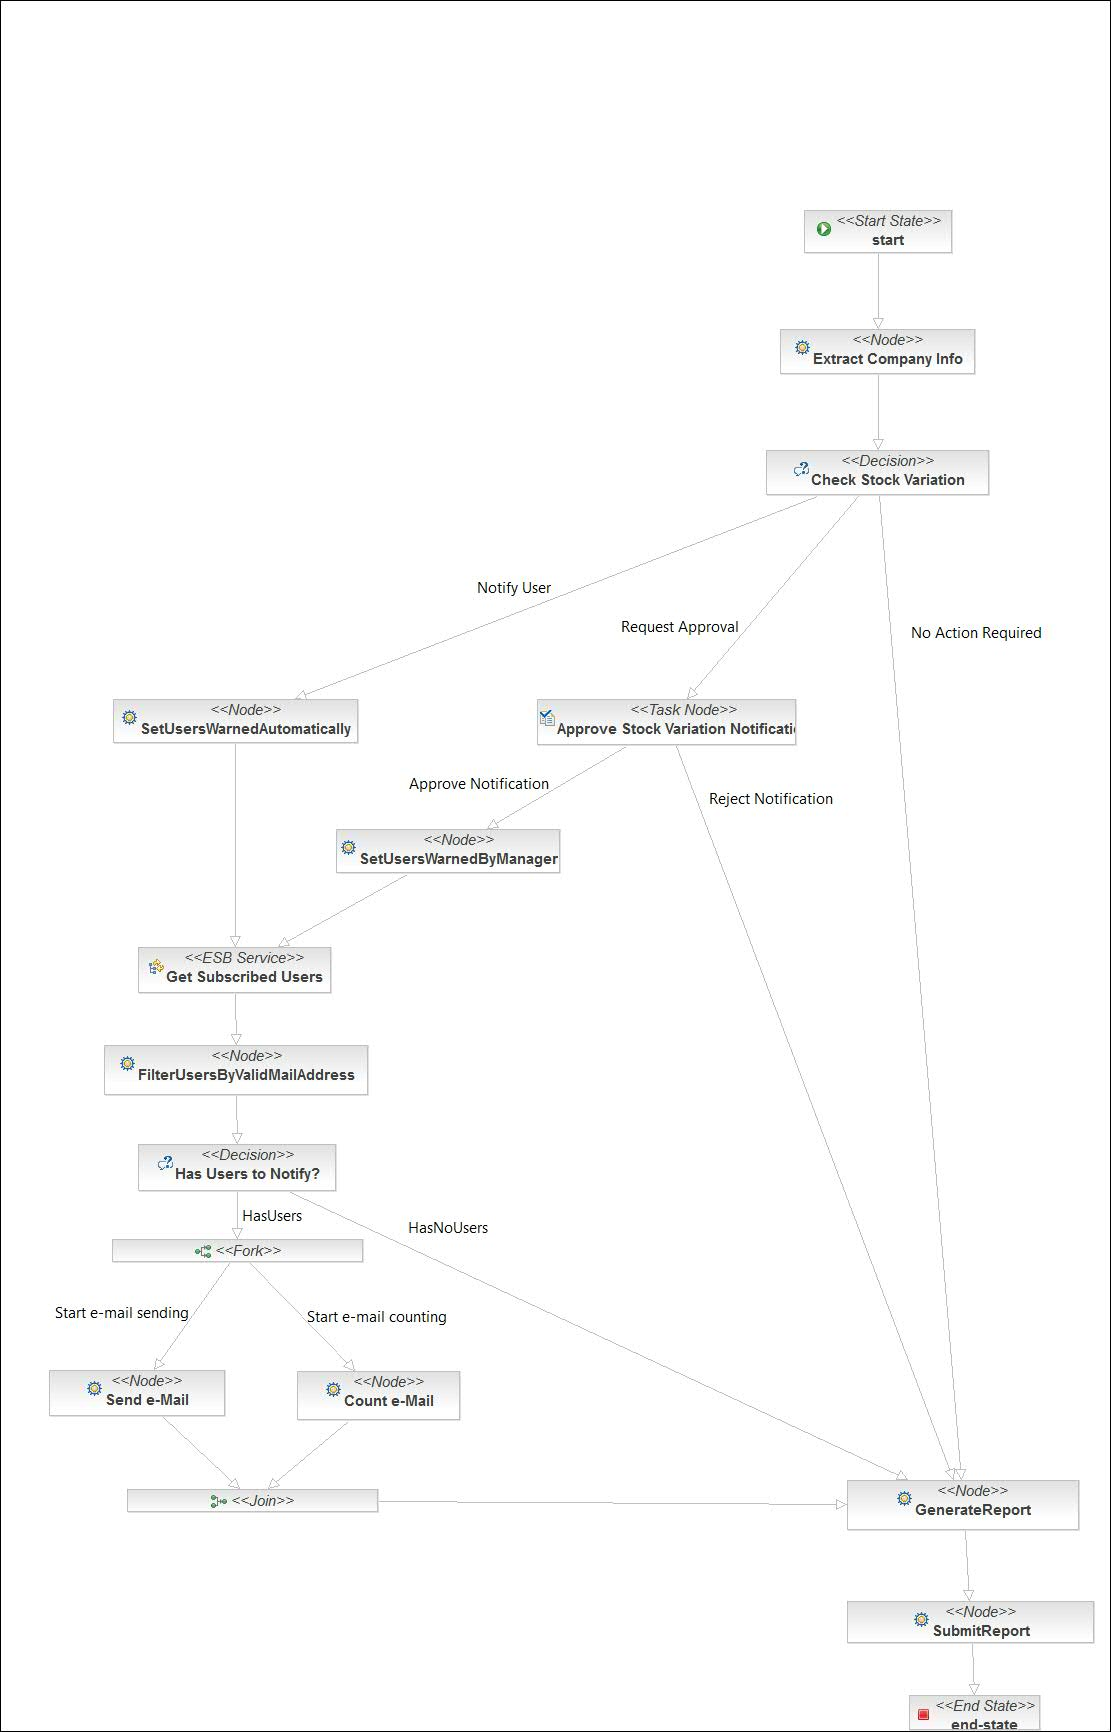
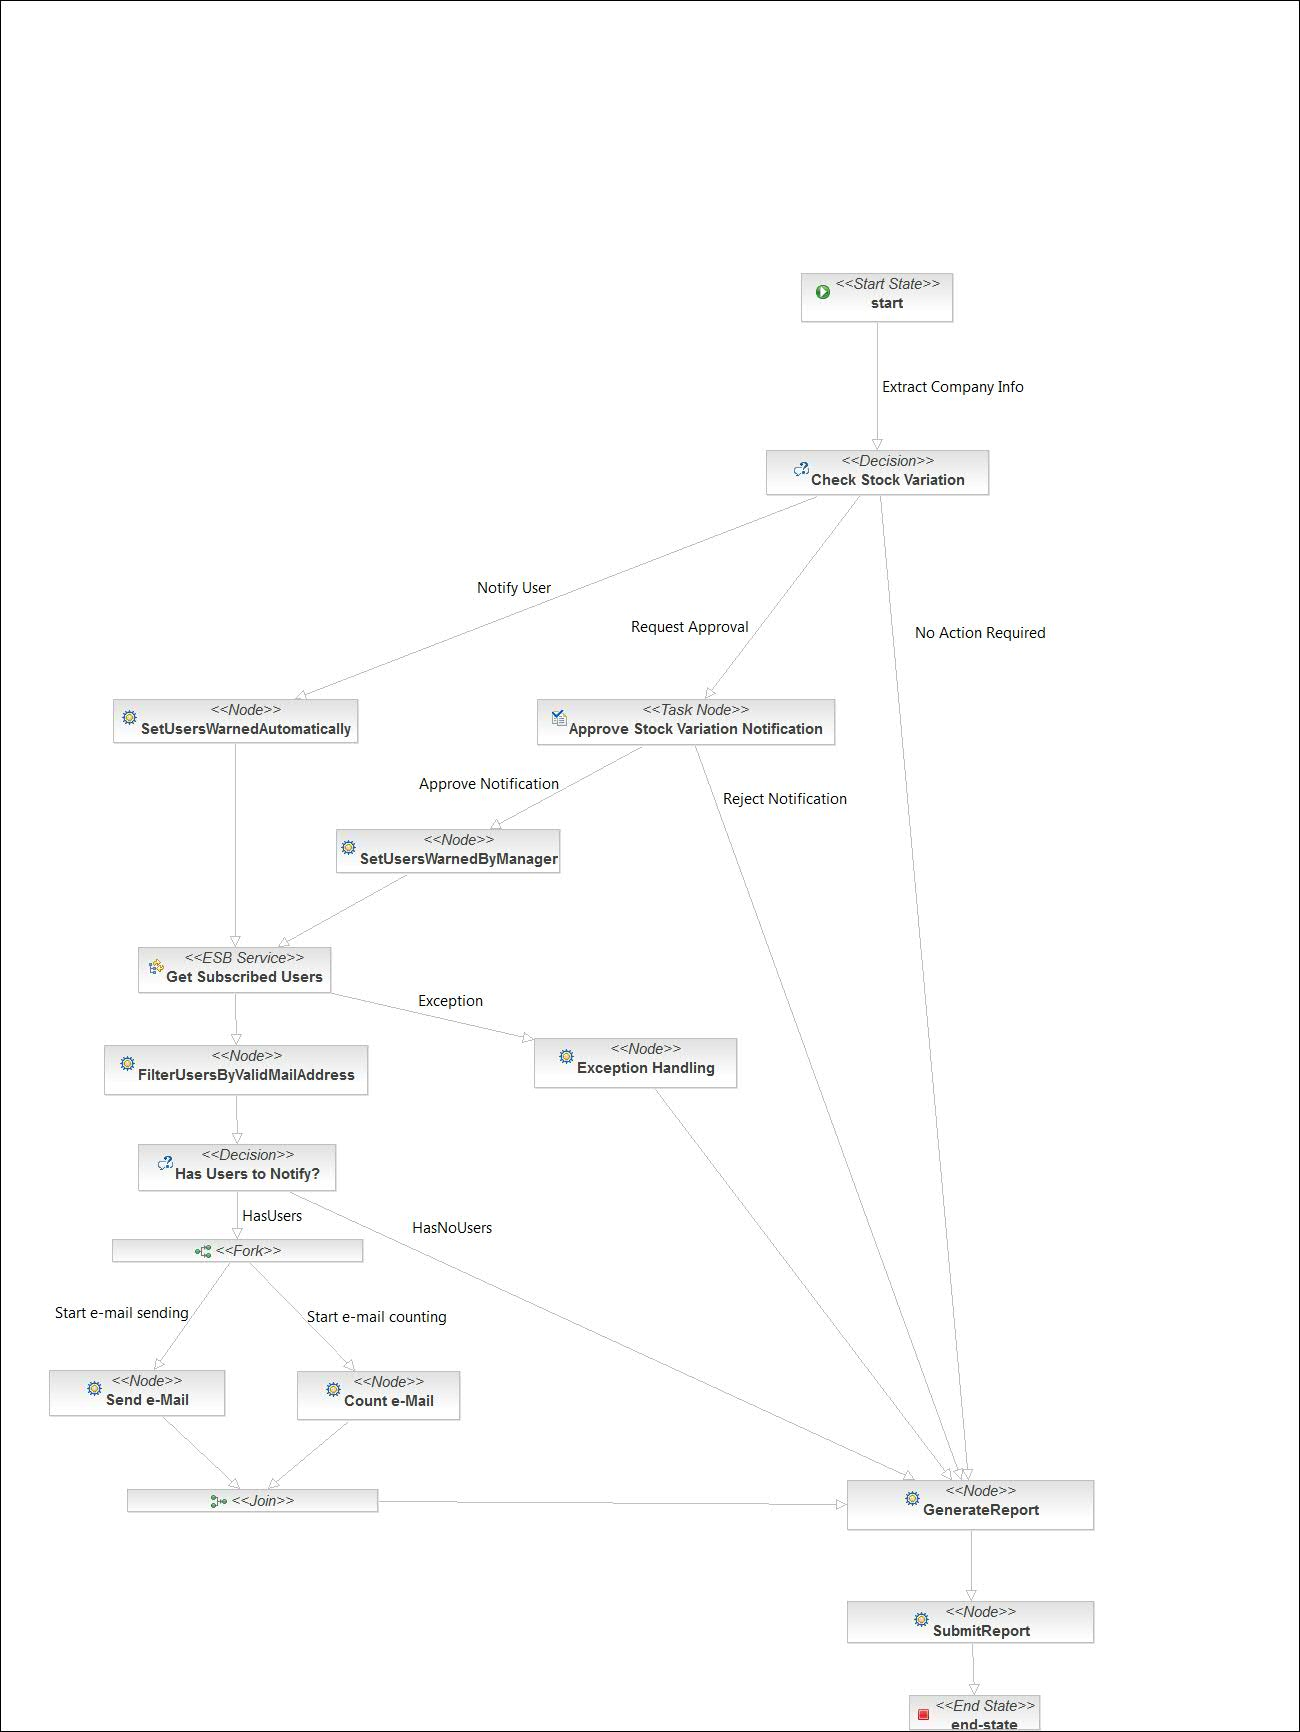
Add: Exception handling

diff --git a/Project3/JBPMServices/src/jbpm/eai/msejdf/jbpm/actions/PrepareEsbMailSendCall.java b/Project3/JBPMServices/src/jbpm/eai/msejdf/jbpm/actions/PrepareEsbMailSendCall.java
@@ -75,7 +75,7 @@ public class PrepareEsbMailSendCall implements ActionHandler {
 	
 		buffer.append(String.format("Last: %s \n", (company.getLastQuotation() == null ? "" : company.getLastQuotation())));
 		buffer.append(String.format("Time: %s \n", (company.getTime() == null ? "" : company.getTime())));
-		buffer.append(String.format("Variation: %s \n", (company.getVariation() == null ? "" : company.getVariation())));
+		buffer.append(String.format("Variation: %s%% \n", (company.getVariation() == null ? "" : company.getVariation())));
 		buffer.append(String.format("Quantity: %s \n", (company.getQuantity() == null ? "" : company.getQuantity())));
 		buffer.append(String.format("Maximum: %s \n", (company.getMaximum() == null ? "" : company.getMaximum())));
 		buffer.append(String.format("Minimum: %s \n", (company.getMinimum() == null ? "" : company.getMinimum())));
